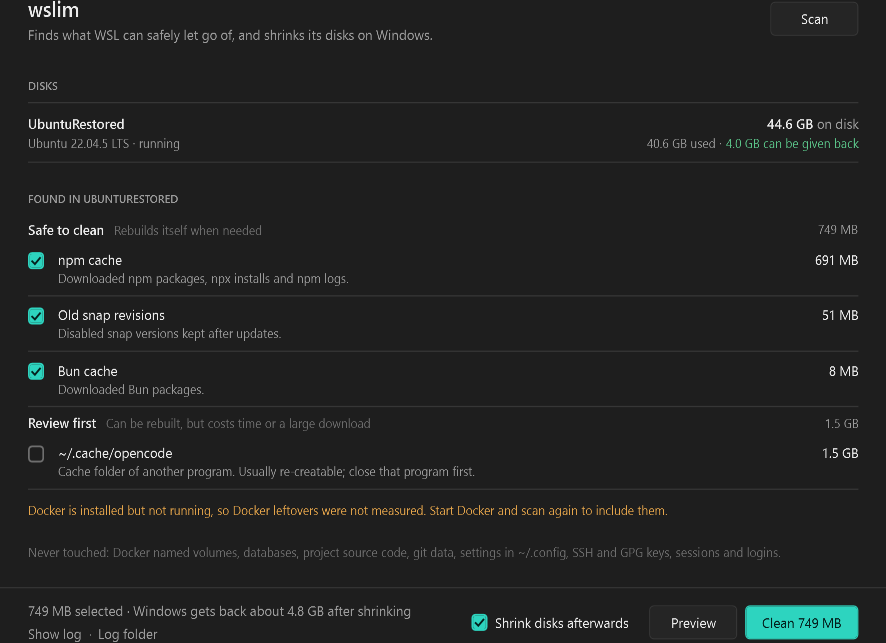
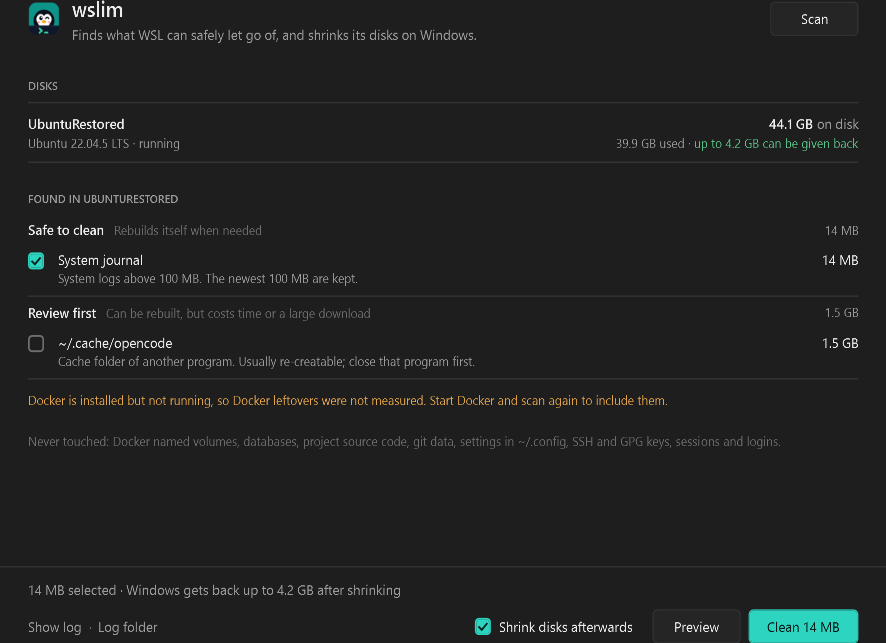
1.2.2: shrink button shows a tick and stays off after a finished shrink; README and report updated
- 'Shrunk' state until something is cleaned or scanned again.
- 'up to' wording for the reclaim estimate; 'Shrink started' in the log for shrink-only runs.
- README: fixed-version notice, shrink description, six results, recover command.

diff --git a/src/App.cs b/src/App.cs
@@ -388,7 +388,7 @@ namespace Wslim
             if (busy || blocked) return;
             var targets = Distros.Where(d => !d.Managed).ToList();
             if (targets.Count == 0) { ScanDone.Set(); return; }
-            resultBanner = null;
+            resultBanner = null; shrunk = false;
             SetBusy(true, "Scanning…");
             Log.Write("Scan started");
             foreach (var d in targets) { d.Items = new List<Item>(); d.Notes = new List<string>(); d.Scanned = false; }
@@ -478,6 +478,7 @@ namespace Wslim
             foreach (var d in Distros) { var dd = d; if (r.CleanedOk.Contains(dd)) dd.Items = dd.Items.Where(i => !picked.Contains(i)).ToList(); }
             resultOutcome = r.Outcome;
             resultBanner = r.Banner;
+            shrunk = r.Returned >= 0 && (r.Outcome == Outcome.Success || r.Outcome == Outcome.NoSpaceReclaimed);
             if (r.Outcome == Outcome.RecoveryRequired) { EnterRecovery(r.RecoveryLines); return; }
             Render();
             SetBusy(false, resultBanner);
@@ -572,7 +573,7 @@ namespace Wslim
                     long gap = Math.Max(0, d.FileSize - d.Used);
                     var sub = new TextBlock { HorizontalAlignment = HorizontalAlignment.Right, FontSize = 12 };
                     sub.Inlines.Add(new System.Windows.Documents.Run(Fmt.Size(d.Used) + " used · ") { Foreground = T.B("MUTED") });
-                    sub.Inlines.Add(new System.Windows.Documents.Run(Fmt.Size(gap) + " can be given back") { Foreground = T.B(gap > (1L << 30) ? "GOOD" : "MUTED") });
+                    sub.Inlines.Add(new System.Windows.Documents.Run("up to " + Fmt.Size(gap) + " can be given back") { Foreground = T.B(gap > (1L << 30) ? "GOOD" : "MUTED") });
                     right.Children.Add(sub);
                 }
             }
@@ -641,12 +642,16 @@ namespace Wslim
             return false;
         }
 
+        bool shrunk;   // a shrink finished in this window and nothing was cleaned since
+
         void UpdateFooter(string text = null)
         {
             if (busy) return;
             var picked = Distros.SelectMany(d => d.Items).Where(Ticked).ToList();
             CleanBtn.Content = picked.Count > 0 ? "Clean " + Fmt.Size(picked.Sum(i => i.Bytes))
-                             : (ShrinkChk.IsChecked == true ? "Shrink disks" : "Clean");
+                             : (ShrinkChk.IsChecked == true ? (shrunk ? "\u2713 Shrunk" : "Shrink disks") : "Clean");
+            // After a finished shrink there is nothing left to shrink until something is cleaned or scanned again.
+            CleanBtn.IsEnabled = !(shrunk && picked.Count == 0 && ShrinkChk.IsChecked == true);
             if (text != null) Status.Text = text;
             else if (Distros.Any(d => d.Scanned))
             {
@@ -654,7 +659,7 @@ namespace Wslim
                 if (ShrinkChk.IsChecked == true)
                 {
                     long reclaim = Distros.Where(d => d.HasDisk && !d.Sparse && d.Used >= 0 && d.FileSize > 0).Sum(d => Math.Max(0, d.FileSize - d.Used));
-                    Status.Text = string.Format("{0} selected · Windows gets back about {1} after shrinking", Fmt.Size(sel), Fmt.Size(reclaim + sel));
+                    Status.Text = string.Format("{0} selected · Windows gets back up to {1} after shrinking", Fmt.Size(sel), Fmt.Size(reclaim + sel));
                 }
                 else Status.Text = string.Format("{0} selected · freed inside WSL only; the disk file on Windows keeps its size until you shrink it", Fmt.Size(sel));
             }

diff --git a/src/Compact.cs b/src/Compact.cs
@@ -1138,7 +1138,7 @@ namespace Wslim
                 return r;
             }
 
-            host.Write(preview ? "Preview (nothing is changed)" : "Clean started");
+            host.Write(preview ? "Preview (nothing is changed)" : (picked.Count > 0 ? "Clean started" : "Shrink started"));
             long freed = 0;
             foreach (var g in picked.GroupBy(i => i.Distro))
             {

diff --git a/src/Core.cs b/src/Core.cs
@@ -18,8 +18,8 @@ using Microsoft.Win32;
 [assembly: AssemblyTitle("wslim")]
 [assembly: AssemblyProduct("wslim")]
 [assembly: AssemblyDescription("Clean WSL safely and shrink its disks")]
-[assembly: AssemblyVersion("1.2.1.0")]
-[assembly: AssemblyFileVersion("1.2.1.0")]
+[assembly: AssemblyVersion("1.2.2.0")]
+[assembly: AssemblyFileVersion("1.2.2.0")]
 
 namespace Wslim
 {

diff --git a/README.md b/README.md
@@ -2,25 +2,18 @@
 
 # wslim
 
-> [!CAUTION]
-> **All releases up to v1.1.3 are withdrawn. Do not use their "Shrink disks" step.**
-> A bug in the disk script left the WSL disk attached to Windows, after which WSL fails to start with
-> `ERROR_SHARING_VIOLATION`. The downloads were removed and a fixed version is in progress.
-> If you already ran it, recover in an elevated PowerShell (no data is lost; the disk was attached read-only):
->
-> ```powershell
-> wsl --shutdown
-> Get-DiskImage -ImagePath "C:\path\to\ext4.vhdx" | Format-List Attached,DevicePath
-> Dismount-DiskImage -ImagePath "C:\path\to\ext4.vhdx"
-> ```
->
-> Details: [incident report](WSLIM_COMPACTION_INCIDENT_REPORT.md).
+> [!IMPORTANT]
+> **Use v1.2.2 or later.** Versions up to v1.1.3 were withdrawn: their shrink step left the WSL disk attached to
+> Windows, and WSL then failed to start with `ERROR_SHARING_VIOLATION`. If that happened to you, run
+> `wsl --shutdown` and then `Dismount-DiskImage -ImagePath "C:\path\to\ext4.vhdx"` in an elevated PowerShell
+> (the disk was attached read-only; no data is lost). What went wrong and what changed:
+> [incident report](WSLIM_COMPACTION_INCIDENT_REPORT.md).
 
 <p align="center">
   <a href="https://github.com/4riful/wslim/releases/latest"><img alt="Release" src="https://img.shields.io/github/v/release/4riful/wslim"></a>
   <a href="https://github.com/4riful/wslim/releases"><img alt="Downloads" src="https://img.shields.io/github/downloads/4riful/wslim/total"></a>
-  <img alt="Windows Home supported" src="https://img.shields.io/badge/Windows%20Home-supported-2563eb">
-  <img alt="Size" src="https://img.shields.io/badge/size-120%20KB-2563eb">
+  <img alt="Windows Home supported" src="https://img.shields.io/badge/Windows%20Home-supported-0d9488">
+  <img alt="Size" src="https://img.shields.io/badge/size-189%20KB-0d9488">
   <a href="LICENSE"><img alt="MIT" src="https://img.shields.io/github/license/4riful/wslim"></a>
 </p>
 
@@ -51,7 +44,7 @@ databases or models), cleaning them, shutting WSL down, and running `diskpart` a
 loses data; skipping the `diskpart` step frees nothing on Windows.
 
 wslim does that whole job, with a rule catalog that knows the difference, and shows you everything before it touches
-anything. On that first machine it gave back 27 GB.
+anything.
 
 ## How it works
 
@@ -62,8 +55,10 @@ anything. On that first machine it gave back 27 GB.
    It reports each finding with a tier, a size and the exact paths.
 3. **Clean**: sends back the exact paths you ticked. A path is deleted only if it was in the scan, you ticked it,
    and the rule still matches it now. Then `fstrim` tells Windows which blocks are free.
-4. **Shrink**: shuts WSL down and runs `diskpart` `compact vdisk` on each disk, after one UAC prompt. This is the step
-   that returns space to C:.
+4. **Shrink**: asks first, shuts WSL down, and compacts each disk with `diskpart` (`select vdisk` + `compact vdisk`)
+   behind one UAC prompt. The disk is never attached to Windows. Before it starts, wslim checks that WSL is really
+   stopped and that nothing holds the disk; afterwards it checks the disk is free again, then starts the distros
+   that were running. This is the step that returns space to C:.
 
 The diagram source is [docs/how-it-works.excalidraw](docs/how-it-works.excalidraw).
 
@@ -82,14 +77,16 @@ The full list of rules is in [docs/RULES.md](docs/RULES.md).
 
 ## Install
 
-Installation is paused until the fixed version is released.
+```powershell
+scoop bucket add 4riful https://github.com/4riful/scoop-bucket; scoop install wslim
+```
 
 Or download from the [latest release](../../releases/latest):
 
 | File | Size | What |
 |---|---|---|
-| `wslim.exe` | ~120 KB | The app |
-| `wslim-cli.exe` | ~60 KB | The same engine without a window, for terminals and scripts |
+| `wslim.exe` | ~189 KB | The app |
+| `wslim-cli.exe` | ~112 KB | The same engine without a window, for terminals and scripts |
 
 - Windows 10 or 11 with WSL 2, any edition including Home.
 - .NET Framework 4.8 is built into Windows; nothing else to install. No installer.
@@ -102,7 +99,16 @@ Or download from the [latest release](../../releases/latest):
 3. Optionally click **Preview** to see the exact commands, without changing anything.
 4. Click **Clean**. wslim always asks before it stops WSL, and lists which distros are running. Only the exact folders shown in the scan and ticked are removed; anything that appeared after the scan is left alone. Hover an item to see its paths.
 
-**Shrink disks afterwards** (on by default) runs after cleaning. It shuts WSL down (`wsl --shutdown`), so terminals, VS Code, Claude Code and containers running in WSL will close; save your work first. It then runs `diskpart` (`compact vdisk`) on each disk after one UAC prompt. Disks of Docker Desktop, Rancher Desktop and Podman are only shrunk, never cleaned, and are skipped while Docker Desktop is running. Disks that are sparse files are skipped, because Windows shrinks those itself.
+**Shrink disks afterwards** (on by default) runs after cleaning. `wsl --shutdown` stops **all** distros, so
+terminals, VS Code, Claude Code and containers running in WSL close; save your work first. wslim names the running
+distros before it asks, and starts them again when the shrink is verified safe.
+
+Every run ends with one of six results: **Success**, **No space reclaimed**, **Partial success**, **Failed**,
+**Cancelled** or **Recovery required**. If wslim cannot verify that a disk is free again, it stops, shows the exact
+recovery commands, and blocks further runs until the check passes (`wslim-cli recover`, or the button in the app).
+
+Disks of Docker Desktop, Rancher Desktop and Podman are only shrunk, never cleaned, and are skipped while Docker
+Desktop is running. Sparse disks are skipped, because Windows shrinks those itself.
 
 ## Command line (no window)
 
@@ -115,11 +121,12 @@ wslim-cli clean --preview               show what a clean of all safe items woul
 wslim-cli clean --shrink                clean safe items, stop WSL, shrink the disks
 wslim-cli clean --ids npm,gomod         clean exactly these items (review items only this way)
 wslim-cli shrink                        only shrink the disks
+wslim-cli recover                       after an interrupted shrink: read-only disk check
 ```
 
 Options: `--distro NAME` limits to one distro, `--yes` skips the confirmation. Without `--yes`, every command that changes
-something prints its plan, lists the distros that will be stopped, and asks `[y/N]`. Exit codes: 0 ok, 1 error or
-cancelled, 2 usage.
+something prints its plan, lists the distros that will be stopped, and asks `[y/N]`. Exit codes: 0 success or no space
+reclaimed, 1 failed, partial or cancelled, 2 usage, 3 recovery required.
 
 ## What it never touches
 
@@ -142,6 +149,9 @@ The **Log folder** link in the app opens this folder.
 ## Build from source
 
 On Windows, run `build.cmd`. It uses the C# compiler that ships with Windows (.NET Framework 4.8), so no SDK is needed. The result is `bin\wslim.exe`.
+
+Tests: `bin\wslim-tests.exe` (unit tests with a fake machine) and, on CI only, `--integration` on throw-away VHDX
+files.
 
 From inside WSL, run `./build.sh`. It copies the sources to a temp folder on C: and runs `build.cmd` there.
 

diff --git a/WSLIM_COMPACTION_INCIDENT_REPORT.md b/WSLIM_COMPACTION_INCIDENT_REPORT.md
@@ -390,3 +390,15 @@ purpose, never `UbuntuRestored`) must pass before any release.
 10. All tests in section 8 pass on CI, including the disposable-VHDX integration job.
 11. One full manual run on a disposable WSL distro passes before release; `UbuntuRestored` is never used for testing.
 12. No commit, push, release or post without your explicit approval.
+
+---
+
+## 11. Resolution (2026-11-27)
+
+- Fixed in v1.2.0-v1.2.2 as designed in section 6.1: `select vdisk` + `compact vdisk`, the disk is never attached.
+- Automated tests: 38 unit tests with a fake machine; integration tests with real DiskPart on throw-away VHDX files
+  in CI (both modes, disk verified free afterwards).
+- First run on a real WSL disk, by the owner on the affected machine: 44.6 GB → 44.0 GB, outcome Success, disk
+  verified free, distro started again automatically. Log: 02:28:33-02:29:03.
+- Still not exercised on a real machine: the Recovery required screen, `wslim-cli recover`, UAC decline, timeouts,
+  multi-disk runs, and elevation under a different administrator account.
